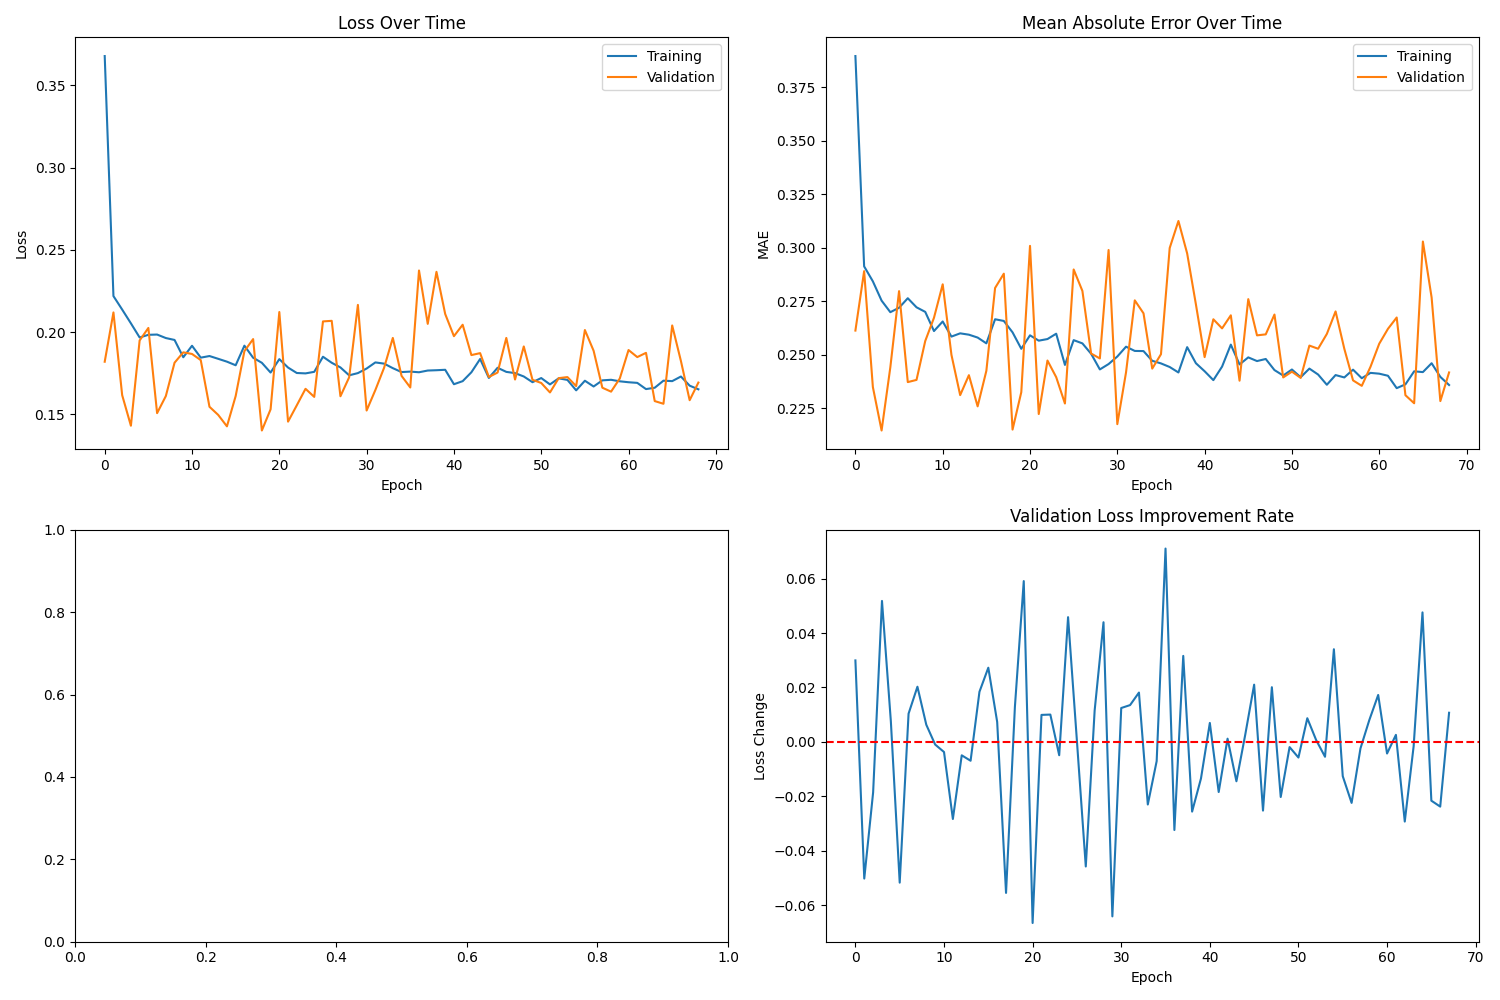
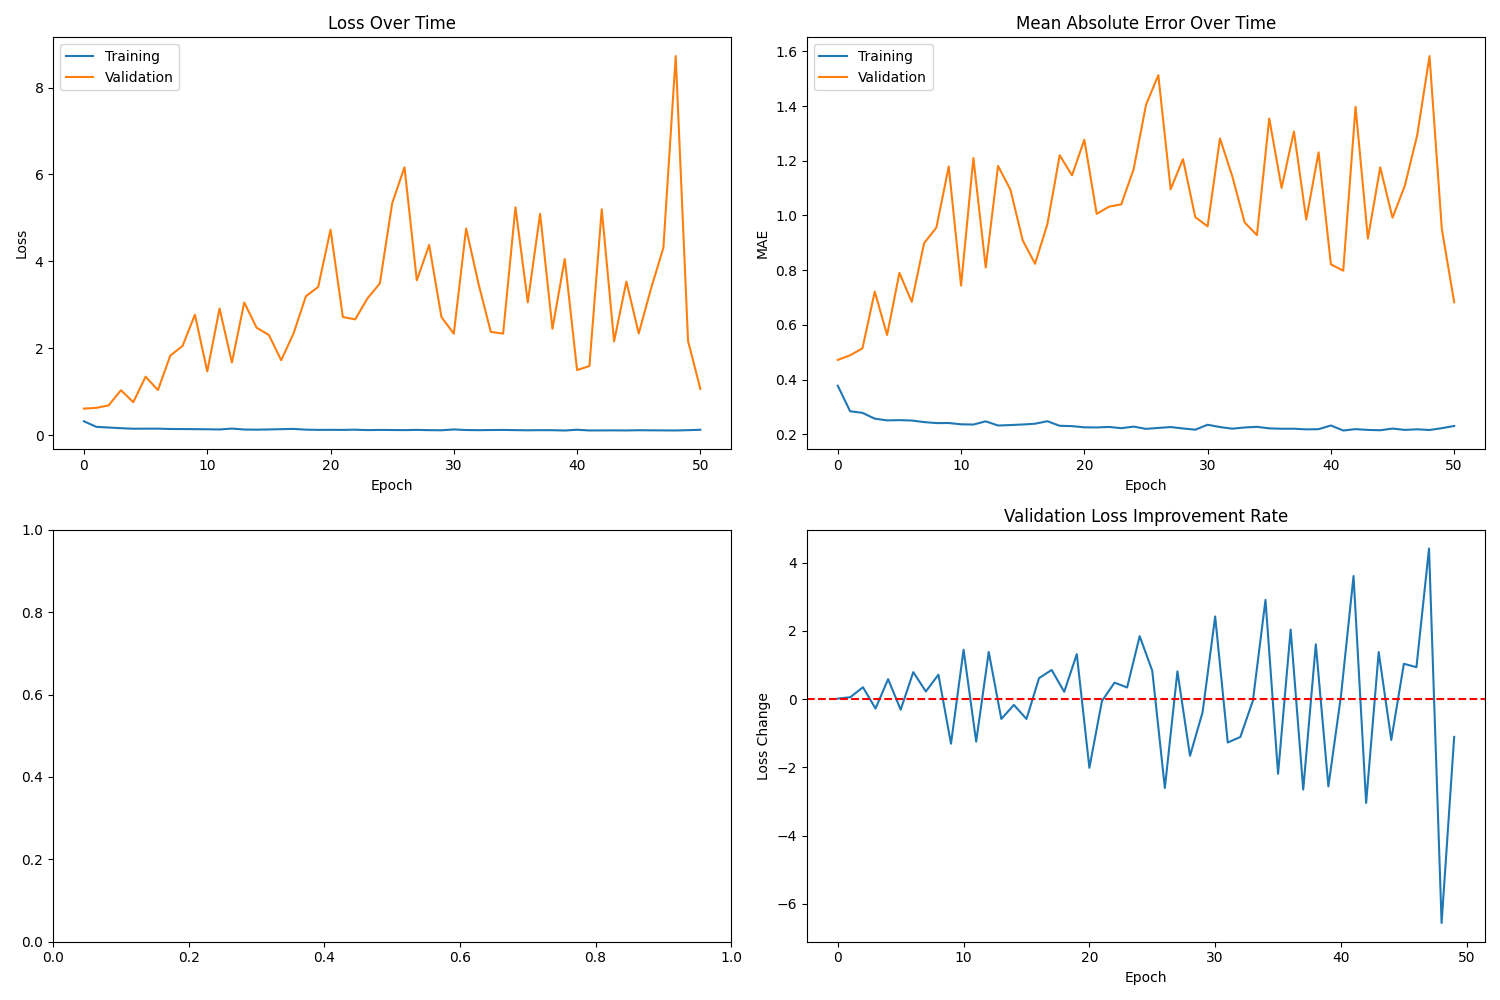
added wind wand weather code to neural network - total overfitting and very bad model performance at the moment

diff --git a/NeuralNetwork/neural_simple.py b/NeuralNetwork/neural_simple.py
@@ -21,85 +21,23 @@ from data.data_prep import prepare_features
 from data.data_prep import merge_datasets
 from data.data_prep import handle_missing_values
 
-def create_callbacks():
-    early_stopping = EarlyStopping(
-        monitor='val_loss',
-        patience=50,
-        restore_best_weights=True,
-        verbose=1
-    )
-    
-    reduce_lr = ReduceLROnPlateau(
-        monitor='val_loss',
-        factor=0.5,
-        patience=50,
-        min_lr=0.00001,
-        verbose=1
-    )
-    
-    return [early_stopping, reduce_lr]
-
-def plot_detailed_history(history):
-    fig, ((ax1, ax2), (ax3, ax4)) = plt.subplots(2, 2, figsize=(15, 10))
-    
-    # Loss
-    ax1.plot(history.history['loss'], label='Training')
-    ax1.plot(history.history['val_loss'], label='Validation')
-    ax1.set_title('Loss Over Time')
-    ax1.set_xlabel('Epoch')
-    ax1.set_ylabel('Loss')
-    ax1.legend()
-    
-    # MAE
-    ax2.plot(history.history['mae'], label='Training')
-    ax2.plot(history.history['val_mae'], label='Validation')
-    ax2.set_title('Mean Absolute Error Over Time')
-    ax2.set_xlabel('Epoch')
-    ax2.set_ylabel('MAE')
-    ax2.legend()
-    
-    # Learning Rate
-    if 'lr' in history.history:
-        ax3.plot(history.history['lr'])
-        ax3.set_title('Learning Rate Over Time')
-        ax3.set_xlabel('Epoch')
-        ax3.set_ylabel('Learning Rate')
-    
-    # Loss improvement rate
-    loss_improvements = np.diff(history.history['val_loss'])
-    ax4.plot(loss_improvements)
-    ax4.set_title('Validation Loss Improvement Rate')
-    ax4.set_xlabel('Epoch')
-    ax4.set_ylabel('Loss Change')
-    ax4.axhline(y=0, color='r', linestyle='--')
-      
-
-    plt.tight_layout()
-    plt.show()
-    
-    plt.savefig('detailed_history.png')
-    plt.close()
-
 def create_product_features(df):
     df_with_features = df.copy()
     
-    # Base features grouped by type
     weather_features = ['Temperatur', 'Bewoelkung']
     weather_codes = [col for col in df.columns if col.startswith('weather_')]
     wind_features = [col for col in df.columns if col.startswith('wind_')]
     
-    # Get all dummy columns
     weekday_dummies = [col for col in df.columns if col.startswith('weekday_')]
     month_dummies = [col for col in df.columns if col.startswith('month_')]
     season_dummies = [col for col in df.columns if col.startswith('season_')]
    
-    # Combine time features
     time_features = weekday_dummies + month_dummies + season_dummies
     event_features = ['is_holiday', 'is_school_holiday', 'KielerWoche']
     
     all_features = []
     
-    # 1. Create temperature polynomials (up to degree 3)
+    # Temperature polynomials
     temp_poly = PolynomialFeatures(degree=3, include_bias=False)
     temp_features = temp_poly.fit_transform(df_with_features[['Temperatur']])
     feature_names = ['Temp', 'Temp2', 'Temp3']
@@ -108,60 +46,78 @@ def create_product_features(df):
         df_with_features[name] = temp_features[:, i]
         all_features.append(name)
     
-    # 2. Create weather interactions
+    # Weather interactions
     df_with_features['Temp_Cloud'] = df_with_features['Temperatur'] * df_with_features['Bewoelkung']
     all_features.append('Temp_Cloud')
     
-    # Add all dummy variables to features list
     all_features.extend(weekday_dummies)
     all_features.extend(month_dummies)
     all_features.extend(season_dummies)
     all_features.extend(weather_codes)
     all_features.extend(wind_features)
     
-    # 3. Create product-specific features
+    # Product-specific features
     for product_id in range(1, 7):
-        # Product indicator
         product_col = f'is_product_{product_id}'
         df_with_features[product_col] = (df_with_features['Warengruppe'] == product_id).astype(int)
         all_features.append(product_col)
         
-        # Product-specific weather effects
+        # Weather effects
         for weather in weather_features:
             col_name = f'{weather}_product_{product_id}'
             df_with_features[col_name] = df_with_features[product_col] * df_with_features[weather]
             all_features.append(col_name)
             
-        # Product-specific weather code effects
+        # Weather code effects    
         for weather_code in weather_codes:
             col_name = f'{weather_code}_product_{product_id}'
             df_with_features[col_name] = df_with_features[product_col] * df_with_features[weather_code]
             all_features.append(col_name)
             
-        # Product-specific wind effects
+        # Wind effects
         for wind in wind_features:
             col_name = f'{wind}_product_{product_id}'
             df_with_features[col_name] = df_with_features[product_col] * df_with_features[wind]
             all_features.append(col_name)
         
-        # Product-specific time effects
+        # Time effects
         for time in time_features:
             col_name = f'{time}_product_{product_id}'
             df_with_features[col_name] = df_with_features[product_col] * df_with_features[time]
             all_features.append(col_name)
         
-        # Product-specific event effects
+        # Event effects
         for event in event_features:
             col_name = f'{event}_product_{product_id}'
             df_with_features[col_name] = df_with_features[product_col] * df_with_features[event]
             all_features.append(col_name)
             
-        # Special interaction: temperature squared effect per product
         col_name = f'Temp2_product_{product_id}'
         df_with_features[col_name] = df_with_features[product_col] * df_with_features['Temp2']
         all_features.append(col_name)
     
     return df_with_features, all_features
+
+def plot_history(history):
+    fig, (ax1, ax2) = plt.subplots(1, 2, figsize=(12, 4))
+    
+    ax1.plot(history.history['loss'], label='Training')
+    ax1.plot(history.history['val_loss'], label='Validation')
+    ax1.set_title('Loss Over Time')
+    ax1.set_xlabel('Epoch')
+    ax1.set_ylabel('Loss')
+    ax1.legend()
+    
+    ax2.plot(history.history['mae'], label='Training')
+    ax2.plot(history.history['val_mae'], label='Validation')
+    ax2.set_title('Mean Absolute Error Over Time')
+    ax2.set_xlabel('Epoch')
+    ax2.set_ylabel('MAE')
+    ax2.legend()
+    
+    plt.tight_layout()
+    plt.savefig('training_history.png')
+    plt.close()
 
 def prepare_and_predict_umsatz_nn(df):
     """
@@ -180,29 +136,25 @@ def prepare_and_predict_umsatz_nn(df):
     y_test_scaled = scaler_y.transform(y_test.values.reshape(-1, 1)).ravel()
     
     model = Sequential([
-        Dense(256, activation='relu', input_shape=(len(feature_columns),)),  # Increased from 128
-    Dropout(0.3),  # Decreased from 0.4
-    Dense(128, activation='relu'),  # Increased from 64
-    BatchNormalization(),
-    Dropout(0.2),  # Decreased from 0.3
-    Dense(64, activation='relu'),  # Increased from 32
-    Dropout(0.1),  # Decreased from 0.2
-    Dense(32, activation='relu'),  # Increased from 16
-    Dense(1)
+        Dense(256, activation='relu', input_shape=(len(feature_columns),)),
+        Dropout(0.3),
+        Dense(128, activation='relu'),
+        BatchNormalization(),
+        Dropout(0.2),
+        Dense(64, activation='relu'),
+        Dropout(0.1),
+        Dense(32, activation='relu'),
+        Dense(1)
     ])
     
     model.compile(optimizer=Adam(learning_rate=0.01),
                  loss='mse',
                  metrics=['mae'])
     
-    # Using the new callbacks
-    callbacks = create_callbacks()
-    
     history = model.fit(X_train_scaled, y_train_scaled,
-                       epochs=100,
+                       epochs=50,
                        batch_size=32,
                        validation_split=0.2,
-                       callbacks=callbacks,
                        verbose=1)
     
     y_pred_scaled = model.predict(X_test_scaled)
@@ -223,31 +175,27 @@ def prepare_and_predict_umsatz_nn(df):
     return model, r2, rmse, product_metrics, scaler_X, scaler_y, history, feature_columns
 
 def main():
-    # Load and prepare data
+    # Load and merge data
     df_merged = merge_datasets()
     df_featured = prepare_features(df_merged)
     df_cleaned = handle_missing_values(df_featured)
     
-    # Train neural network
+    # Train model
     model, r2, rmse, product_metrics, scaler_X, scaler_y, history, feature_columns = prepare_and_predict_umsatz_nn(df_cleaned)
     
-    # Print overall results
-    print("\nNeural Network Overall Performance:")
+    # Print results
+    print(f"\nNeural Network Overall Performance:")
     print(f"R-squared score: {r2:.3f}")
     print(f"Root Mean Squared Error: {rmse:.2f}")
     
-    # Print performance by product category
     print("\nNeural Network Performance by Product Category:")
     for category, metrics in product_metrics.items():
         print(f"\n{category}:")
         print(f"R-squared: {metrics['R2']:.3f}")
         print(f"RMSE: {metrics['RMSE']:.2f}")
     
-    # Print when training stopped
-    print(f"\nTraining stopped at epoch {len(history.history['loss'])}")
-    
-    # Plot both the simple and detailed training history
-    plot_detailed_history(history)
+    # Plot training history
+    plot_history(history)
 
 if __name__ == "__main__":
     main()

diff --git a/README.md b/README.md
@@ -4,21 +4,21 @@
 
 
 DATENERGÄNZUNG
-2. add Brückentage before and after holidays
-3. Recherche zu dem Wettercode machen
+1. add Brückentage before and after holidays
 
 MEHR FEATURES, basierend auch auf neuen Daten
 
-
-1. Wettercode
-2. Windgeschwindigkeit
-3. Schulferien 4. Feiertage (Schulferien und sowieso Feiertag?)
+1. Wettercode (hier nochmal die Hauptkategorien besser beschreiben)
+2. Windgeschwindigkeit (hier ebenfalls)
+3. Feiertage (Schulferien und sowieso Feiertag?)
 
 
 
 DATENOPTIMIERUNG UND ERGÄNZUNG 
-7. alle Eure Modellvariablen auf die Existenz von fehlenden und unplausiblen Werten hin untersuchen 
-Euren Datensatz aufebereiten, in dem ihr alle kategoriellen Features korrekt kodiert und alle Zeilen mit fehlenden Werten entfernt.
+1. alle Eure Modellvariablen auf die Existenz von fehlenden und unplausiblen Werten hin untersuchen 
+Euren Datensatz aufebereiten
+2. in dem ihr alle kategoriellen Features korrekt kodiert und alle Zeilen mit fehlenden Werten entfernt
+3. Datenpunktergänzung mit einem Verfahren
 
 VERBESSERUNG NEURONALES NETZ
 8. ein erstes Neuronales Netz optimieren.
